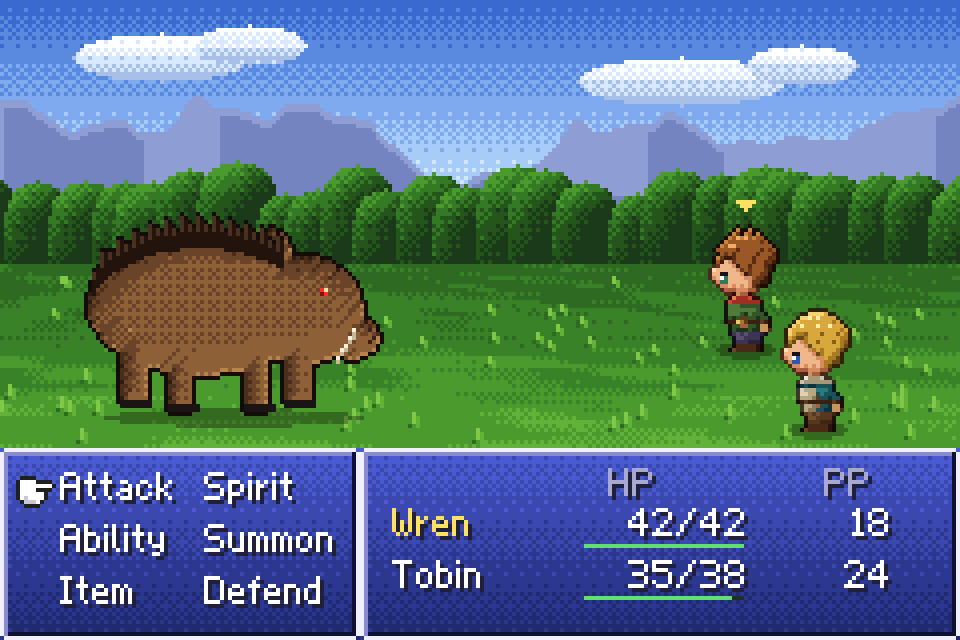
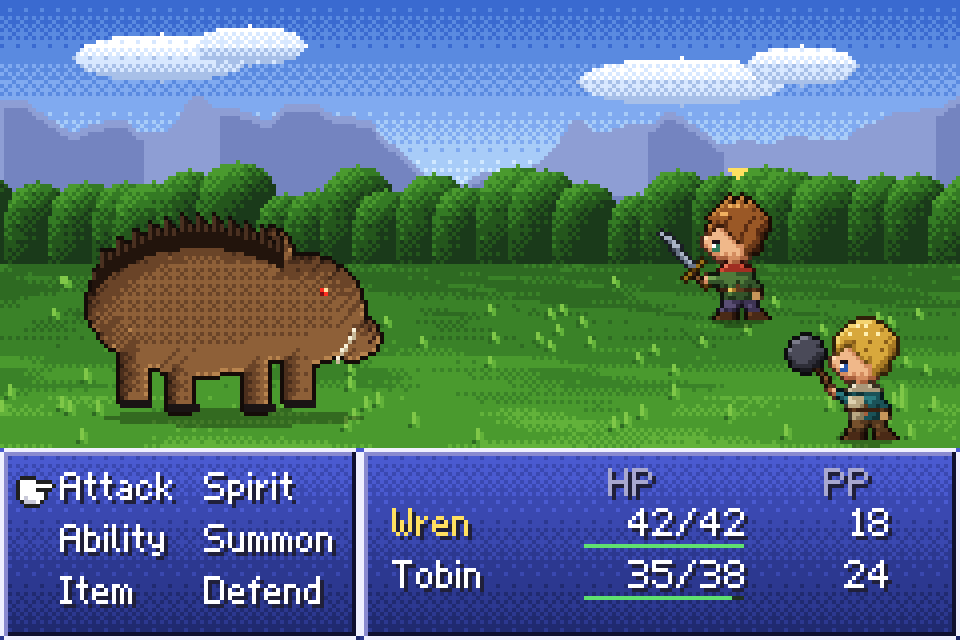
M3 art test: weapons on characters
- weapons.mjs: swords and frying pans stamped into material rows, with a
  'behind' mode so slung weapons peek out around the body
- Wren: sword in a tan scabbard slung across his back (hilt over the
  shoulder from the front, full scabbard from behind)
- Tobin: frying pan on his back (handle over the shoulder, pan from the side)
- 32x32 battle stances with weapons drawn; battle mock-up uses them

Claude-Session: https://claude.ai/code/session_01JMCpuNCY5nYBQQLP22cuke

Changed region(s): [[0.6875, 0.25, 0.9375, 0.7188]]

diff --git a/docs/art-test/README.md b/docs/art-test/README.md
@@ -4,7 +4,7 @@ Custom, code-drawn art in a GBA JRPG style. **Nothing here is final until Frank 
 
 | File | What it shows |
 |------|---------------|
-| `characters.png` | Wren and Tobin sheets close up: 24x32, 4 directions x 3 walk frames |
+| `characters.png` | Wren and Tobin sheets close up: 24x32, 4 directions x 3 walk frames, plus battle stances with weapons drawn |
 | `field-ingame.png` | The real game running the `art_demo` map: open `http://localhost:5173/?map=art_demo` and press Start |
 | `field-composite.png` | The same area rendered offline by the art scripts |
 | `battle-mockup.png` | **Static mock-up** of a side-view battle (no battle code exists yet; that is M4) |
